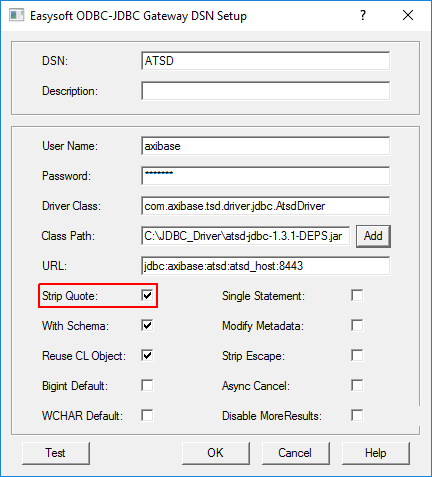
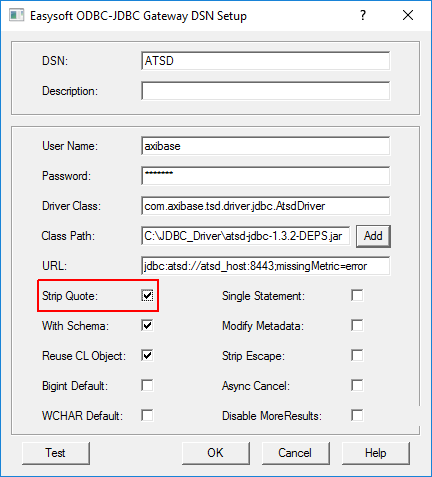
Add required property for Alteryx (#217)
* Add required property for Alteryx

* driver property settings cleaned up

Changed region(s): [[0.3912, 0.5283, 0.8426, 0.587], [0.0903, 0.587, 0.3912, 0.6751], [0.662, 0.4696, 0.6921, 0.499]]

diff --git a/integration/alteryx/README.md b/integration/alteryx/README.md
@@ -44,19 +44,23 @@ these commands on the **Metrics > Data Entry** page.
 
 - Open the **ODBC Data Source Administrator** window by pressing the **ODBC Admin** button in the **ODBC Connection** dialog.
 
-- Configure the datasource as described [here](../odbc/README.md#configure-odbc-data-source).
+- Configure the [datasource](../odbc/README.md#configure-odbc-data-source).
 
-- Append `tables` property to the DSN URL to filter metrics by name in the Query
-  Builder. For example, `tables=*` displays all ATSD metrics as tables whereas `tables=infla*`
-  shows only metrics that start with the characters 'infla'. 
+- Add the [`missingMetric=error`](https://github.com/axibase/atsd-jdbc#jdbc-connection-properties-supported-by-driver) property to the DSN URL to ensure that the driver functions properly.
 
   ```text
-  jdbc:axibase:atsd:ATSD_HOST:8443;tables=*
+    jdbc:atsd:ATSD_HOST:8443;missingMetric=error
+  ```
+
+- If the target ATSD installation contains more than 10000 metrics, consider adding the `tables` property to the DSN URL to filter metrics by name in the Query Builder. For example, `tables=infla*` shows only metrics that start with the characters 'infla'. 
+
+  ```text
+    jdbc:atsd:ATSD_HOST:8443;missingMetric=error;tables=infla*
   ```
 
 > Refer to the [JDBC driver](https://github.com/axibase/atsd-jdbc#jdbc-connection-properties-supported-by-driver) documentation for additional details.
 
-- Make sure the **Strip Quote** option is checked, press **OK**.
+- Check (enable) the **Strip Quote** and **Strip Escape** options, press **OK**.
 
   ![](images/odbc_quotes.png)
 
@@ -129,7 +133,7 @@ You can download [this workflow](resources/atsd-workflow.yxmd) for review in you
 The workflow consists of the following steps (nodes):
 
 1. **Input Data** tool.
-   Repeat the steps in the previous section for this tool, choose
+   Repeat the steps in the [Create Database Connection](#create-database-connection) section for this tool, choose
    `inflation.cpi.categories.price` table. Select `datetime`,
    `value` columns and manually add `tags.category` as shown below.
 
@@ -198,7 +202,7 @@ The workflow consists of the following steps (nodes):
 Press **Run Workflow**.
 
 The data will be retrieved from the database and processed in Designer by the workflow
-with the new series stored back in the database. 
+with the new series stored back in the database.
 
 Click on the **Browse** node to view the results.
 
